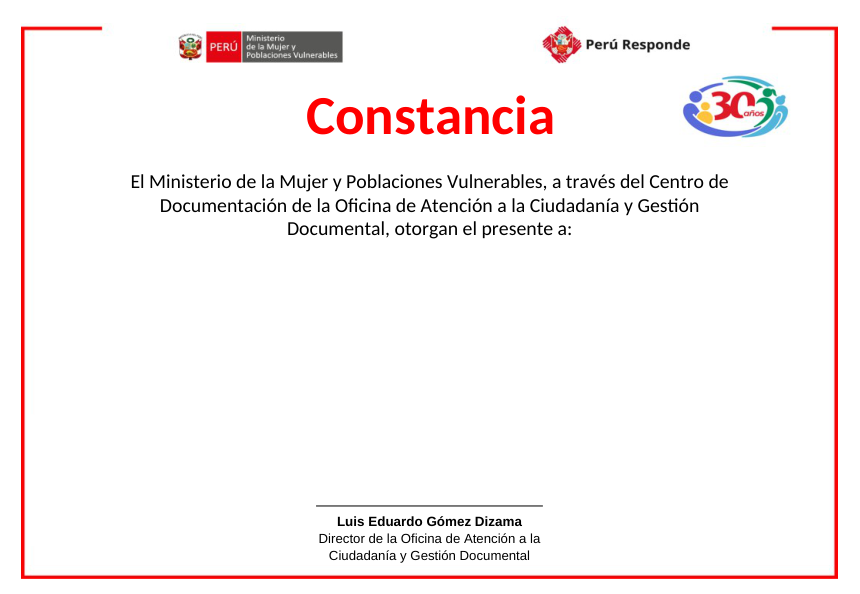
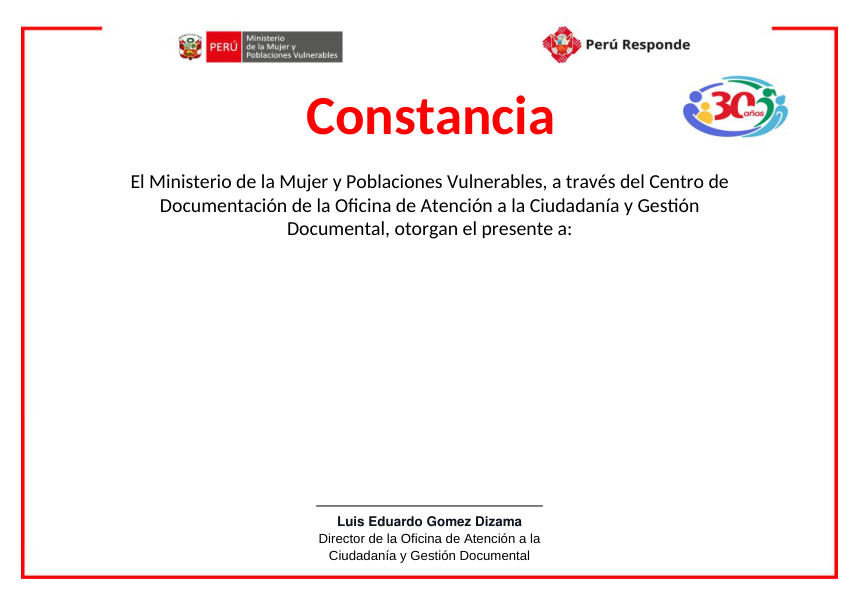
Add files via upload

diff --git a/app.js b/app.js
@@ -17,11 +17,6 @@ async function loadTemplate(){if(!templateBytes){const response=await fetch('ass
 function wrappedLines(text,font,size,maxWidth,maxLines){const words=tidy(text).split(' ');const lines=[];let current='';for(const word of words){const trial=current?current+' '+word:word;if(font.widthOfTextAtSize(trial,size)<=maxWidth)current=trial;else{if(current)lines.push(current);current=word}}if(current)lines.push(current);return lines.length<=maxLines?lines:null}
 function centered(page,line,font,size,y,color){const width=font.widthOfTextAtSize(line,size);page.drawText(line,{x:(page.getWidth()-width)/2,y,font,size,color})}
 async function buildPdf(p){needLibraries('PDFLib');const {PDFDocument,StandardFonts,rgb}=PDFLib;const pdf=await PDFDocument.load(await loadTemplate());const page=pdf.getPage(0);const bold=await pdf.embedFont(StandardFonts.HelveticaBold);const regular=await pdf.embedFont(StandardFonts.Helvetica);const gray=rgb(.06,.08,.12);const white=rgb(1,1,1);let nameSize=29;while(bold.widthOfTextAtSize(p.name,nameSize)>660&&nameSize>12)nameSize-=.5;if(bold.widthOfTextAtSize(p.name,nameSize)>660)throw Error('Nombre demasiado largo: '+p.name);centered(page,p.name,bold,nameSize,540-260,gray);const activity=tidy($('actividad').value);let activitySize=17,lines;while(activitySize>=11){lines=wrappedLines(activity,regular,activitySize,545,4);if(lines)break;activitySize--}if(!lines)throw Error('Descripción de actividad demasiado larga. Acórtala para que no se corte.');const startY=540-305+(lines.length-2)*10;lines.forEach((line,i)=>centered(page,line,regular,activitySize,startY-i*21,gray));const date=tidy($('fecha').value);let fs=16;while(regular.widthOfTextAtSize(date,fs)>250&&fs>=10)fs--;if(regular.widthOfTextAtSize(date,fs)>250)throw Error('Fecha de emisión demasiado larga.');page.drawText(date,{x:697-regular.widthOfTextAtSize(date,fs),y:540-377,size:fs,font:regular,color:gray});
-page.drawRectangle({x:220,y:52,width:340,height:88,color:white,borderColor:white,borderWidth:0});
-page.drawLine({start:{x:275,y:132},end:{x:505,y:132},thickness:1.2,color:gray});
-centered(page,'Luis Eduardo Gomez Dizama',bold,11,92,gray);
-centered(page,'Director de la Oficina de Atención a la',regular,9.2,73,gray);
-centered(page,'Ciudadanía y Gestión Documental',regular,9.2,56,gray);
 return await pdf.save()}
 function filenames(){const used=new Set();return participants.map(p=>{const base=safeFile(p.name);let name=base+'.pdf',n=2;while(used.has(name.toLowerCase()))name=base+'_'+n+++'.pdf';used.add(name.toLowerCase());return name})}
 $('archivo').addEventListener('change',async e=>{const file=e.target.files[0];if(!file)return;try{const rows=await loadRows(file);participants=rows;refresh();$('fileStatus').textContent=rows.length+' participantes importados. Revisa los datos antes de generar.'}catch(err){alert('Error al leer el archivo: '+err.message)}e.target.value=''});
